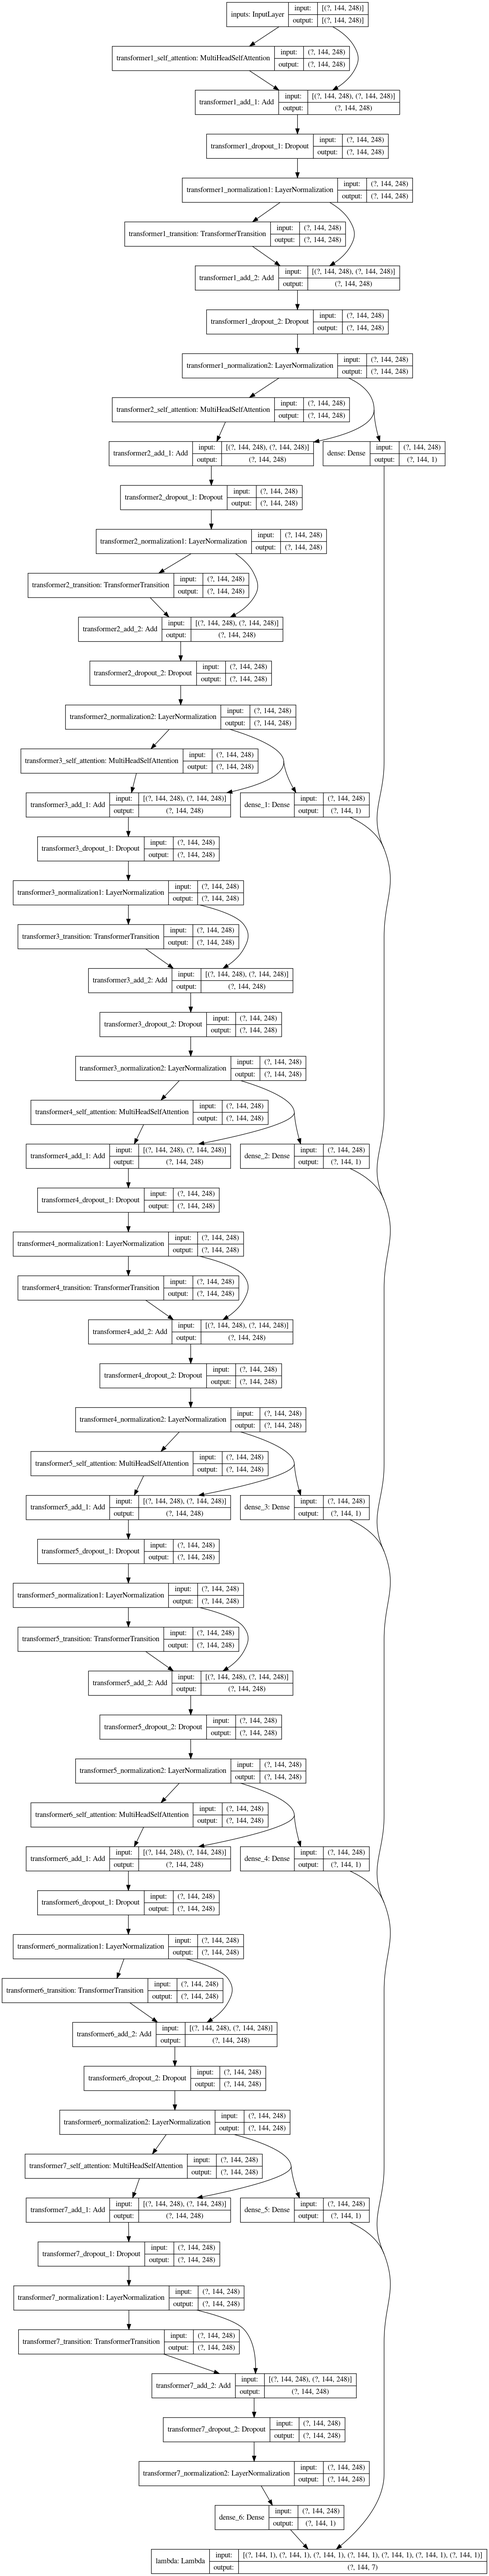
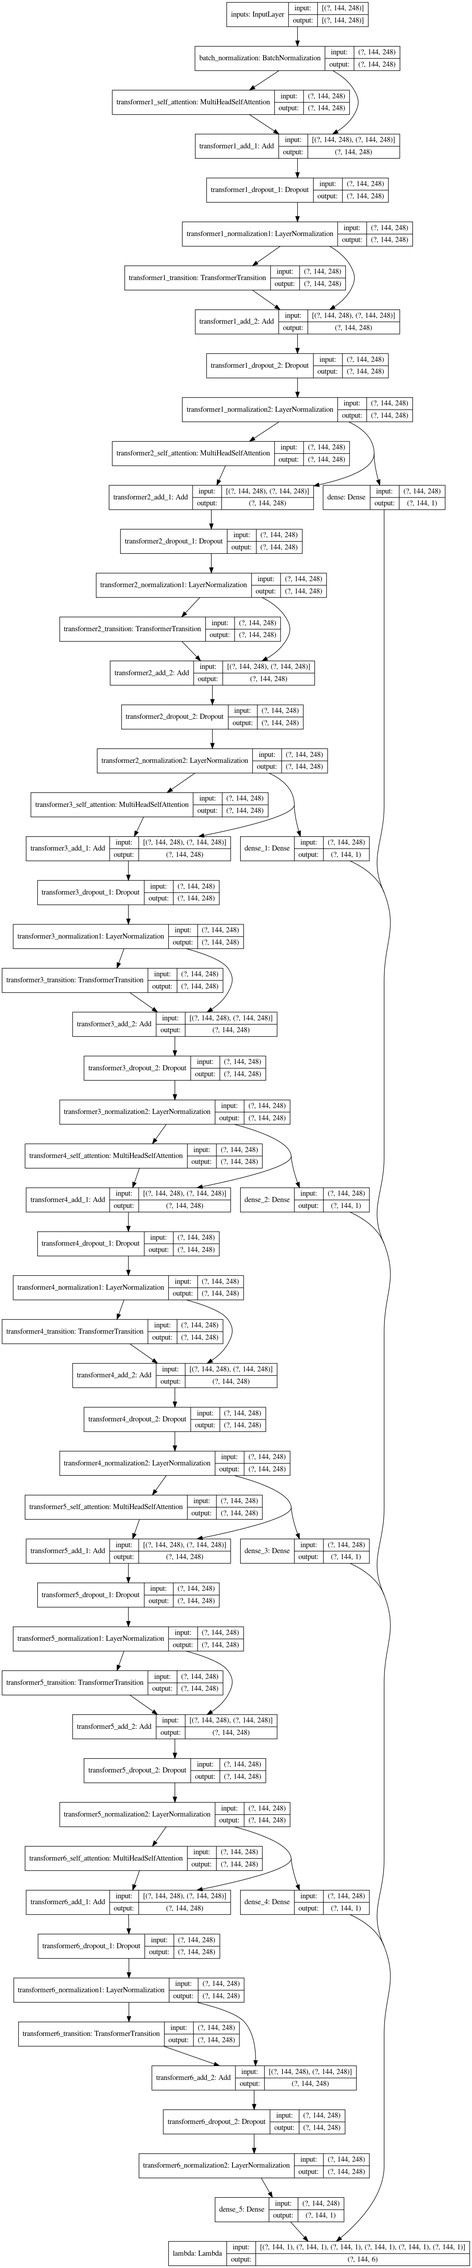
Tune transformer

diff --git a/Logic/utils.py b/Logic/utils.py
@@ -924,7 +924,7 @@ class PlotLosses(tf.keras.callbacks.Callback):
     plt.show()
     
     
-def generator_batch(features, targets, data_ids, hyperpars, batch_size,
+def generator_batch(features, targets, data_ids, hyperpars, batch_size, shuffle,
                     all_targets=False):
   num_molecules = data_ids.size
   max_edges = hyperpars['max_edges']
@@ -938,7 +938,7 @@ def generator_batch(features, targets, data_ids, hyperpars, batch_size,
   batch_in_epoch = 0
   while True:
     if batch_in_epoch == 0:
-      shuffled_data_ids = np.random.permutation(data_ids)
+      epoch_data_ids = np.random.permutation(data_ids) if shuffle else data_ids
     
     # Generate a batch of data
     batch_start_id = batch_in_epoch*batch_size
@@ -950,7 +950,7 @@ def generator_batch(features, targets, data_ids, hyperpars, batch_size,
         all_targets) else (this_batch_size, max_edges)
     batch_targets = np.ones(target_shape) * nan_coding_value
     for i in range(this_batch_size):
-      data_id = shuffled_data_ids[batch_start_id+i]
+      data_id = epoch_data_ids[batch_start_id+i]
       molecule_features = features[data_id]
       molecule_targets = targets[data_id]
       num_edges = molecule_features.shape[0]
@@ -987,6 +987,43 @@ def log_mae(y, p, s):
     log_mae_sc = np.log(np.abs(y[s==sc]-p[s==sc]).mean())
   
   return log_mae_sc.mean()
+
+
+class LogMAEMetric(tf.keras.callbacks.Callback):
+  def __init__(self, validation_generator, validation_steps, coupling_types):
+    self.validation_generator = validation_generator
+    self.validation_steps = validation_steps
+    self.coupling_types = coupling_types
+
+  def on_epoch_end(self, batch, logs={}):
+    self.scores = []
+
+    valid_preds = []
+    valid_targets = []
+    for batch_index in range(self.validation_steps):
+      features, targets = next(self.validation_generator)          
+      non_missing_features = features[:, :, 0].flatten() > 0
+      preds = self.model.predict(features)
+      if len(preds.shape) == 3:
+        preds = preds[:, :, -1]
+        targets = targets[:, :, -1]
+      valid_preds.append(preds.flatten()[non_missing_features])
+      valid_targets.append(targets.flatten()[non_missing_features])
+    
+    valid_preds = np.concatenate(valid_preds)
+    valid_targets = np.concatenate(valid_targets)
+    val_log_mae = log_mae(valid_targets, valid_preds, self.coupling_types)
+    print('Validation log MAE: {0:.5f}'.format(val_log_mae))
+    return
+  
+  
+def get_coupling_types(targets, valid_ids):
+  coupling_types = []
+  for i in valid_ids:
+    coupling_types.append(targets[i][:, -1])
+    
+  coupling_types = np.concatenate(coupling_types)
+  return coupling_types
 
 
 #load_all_graphs('test', recompute_graphs=True)

diff --git a/Logic/transformer_train_validate.py b/Logic/transformer_train_validate.py
@@ -20,10 +20,11 @@ def train(hyperpars, features, targets, train_ids, valid_ids, save_path):
   K.clear_session()
   if hyperpars['override_saved_model'] or not os.path.exists(save_path):
     train_gen = utils.generator_batch(
-        features, targets, train_ids, hyperpars, hyperpars['batch_size_train'])
+        features, targets, train_ids, hyperpars, hyperpars['batch_size_train'],
+        shuffle=True)
     validation_gen = utils.generator_batch(
         features, targets, valid_ids, hyperpars,
-        hyperpars['batch_size_valid_train'])
+        hyperpars['batch_size_valid_train'], shuffle=False)
     train_model = utils.get_model(hyperpars)
     inputs, outputs = train_model(hyperpars)
     model = Model(inputs, outputs)
@@ -34,7 +35,15 @@ def train(hyperpars, features, targets, train_ids, valid_ids, save_path):
     checkpointer = ModelCheckpoint(save_path, monitor=monitor,
                                    mode=monitor_mode, verbose=1,
                                    save_best_only=True, save_freq='epoch')
-    callbacks = [checkpointer]
+    validation_steps = math.ceil(valid_ids.size/hyperpars[
+        'batch_size_valid_train'])
+    coupling_types = utils.get_coupling_types(targets, valid_ids)
+    validation_gen_copy = utils.generator_batch(
+        features, targets, valid_ids, hyperpars,
+        hyperpars['batch_size_valid_train'], shuffle=False)
+    mae_metric = utils.LogMAEMetric(validation_gen_copy, validation_steps,
+                                    coupling_types)
+    callbacks = [checkpointer, mae_metric]
     callbacks.append(utils.PlotLosses())
 #    callbacks.append(TensorBoard('./Graph'))
     
@@ -44,8 +53,7 @@ def train(hyperpars, features, targets, train_ids, valid_ids, save_path):
         epochs=hyperpars['epochs'],
         callbacks=callbacks,
         validation_data=validation_gen,
-        validation_steps=math.ceil(valid_ids.size/hyperpars[
-            'batch_size_valid_train']),
+        validation_steps=validation_steps,
         verbose=1,
         )
   
@@ -55,7 +63,7 @@ def train(hyperpars, features, targets, train_ids, valid_ids, save_path):
 def validate(hyperpars, features, targets, valid_ids, save_path):
   validation_gen = utils.generator_batch(
         features, targets, valid_ids, hyperpars,
-        hyperpars['batch_size_valid'], all_targets=True)
+        hyperpars['batch_size_valid'], shuffle=False, all_targets=True)
   
   # Generate the validation data by calling the generator *N* times
   num_valid_batches = math.ceil(valid_ids.size/hyperpars['batch_size_valid'])

diff --git a/Logic/models.py b/Logic/models.py
@@ -1,5 +1,6 @@
 #import tensorflow as tf
 from tensorflow.keras import backend as K
+from tensorflow.keras.layers import BatchNormalization
 from tensorflow.keras.layers import Dense
 #from tensorflow.keras.layers import Dropout
 from tensorflow.keras.layers import Input
@@ -19,7 +20,9 @@ def initial_transformer(hyperpars):
   
   inputs = Input((max_edges, num_edge_features), name='inputs')
   
+#  bn_inputs = BatchNormalization()(inputs)
   x = inputs
+  x = BatchNormalization()(x)
   auxiliary_outputs = []
   for step in range(hyperpars['transformer_depth']):
     transformer_block = TransformerBlock(
@@ -31,6 +34,7 @@ def initial_transformer(hyperpars):
     vanilla_wiring=False,
     )
     x = transformer_block(x)
+#    x = transformer_block(x+bn_inputs)
     if auxiliary_losses:
       y = x
       for layer in prediction_layers + [1]:

diff --git a/Logic/main_transformer.py b/Logic/main_transformer.py
@@ -15,7 +15,7 @@ hyperpars = {
     'transformer_num_heads': 8,
     'transformer_residual_dropout': 0.1,
     'transformer_attention_dropout': 0.1,
-    'transformer_depth': 7,
+    'transformer_depth': 6,
     'prediction_layers': [],
     'auxiliary_losses': True,
     
@@ -25,7 +25,7 @@ hyperpars = {
     'batch_size_valid': 1024,
     'validation_fraction': 0.2,
     'initial_lr': 1e-3,
-    'epochs': 1,
+    'epochs': 100,
     'nan_coding_value': 999,
     
     'override_saved_model': True,
